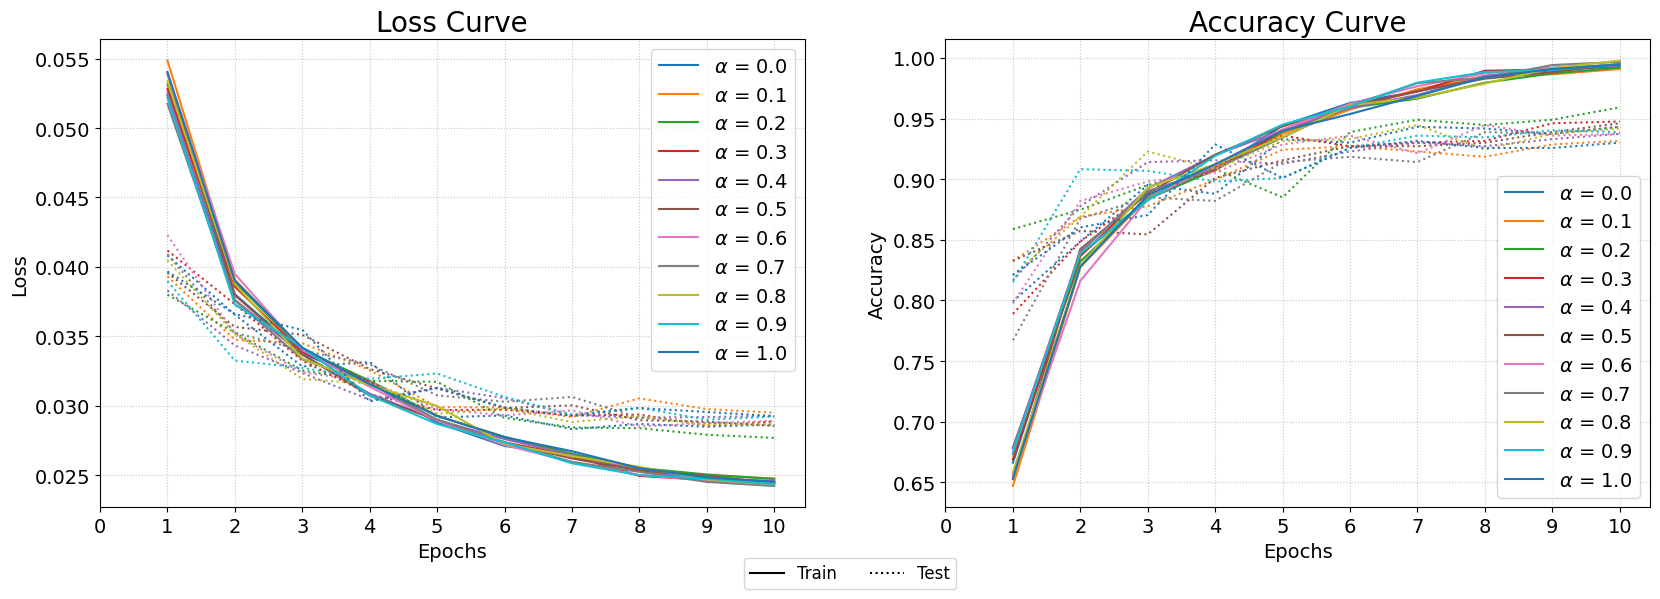
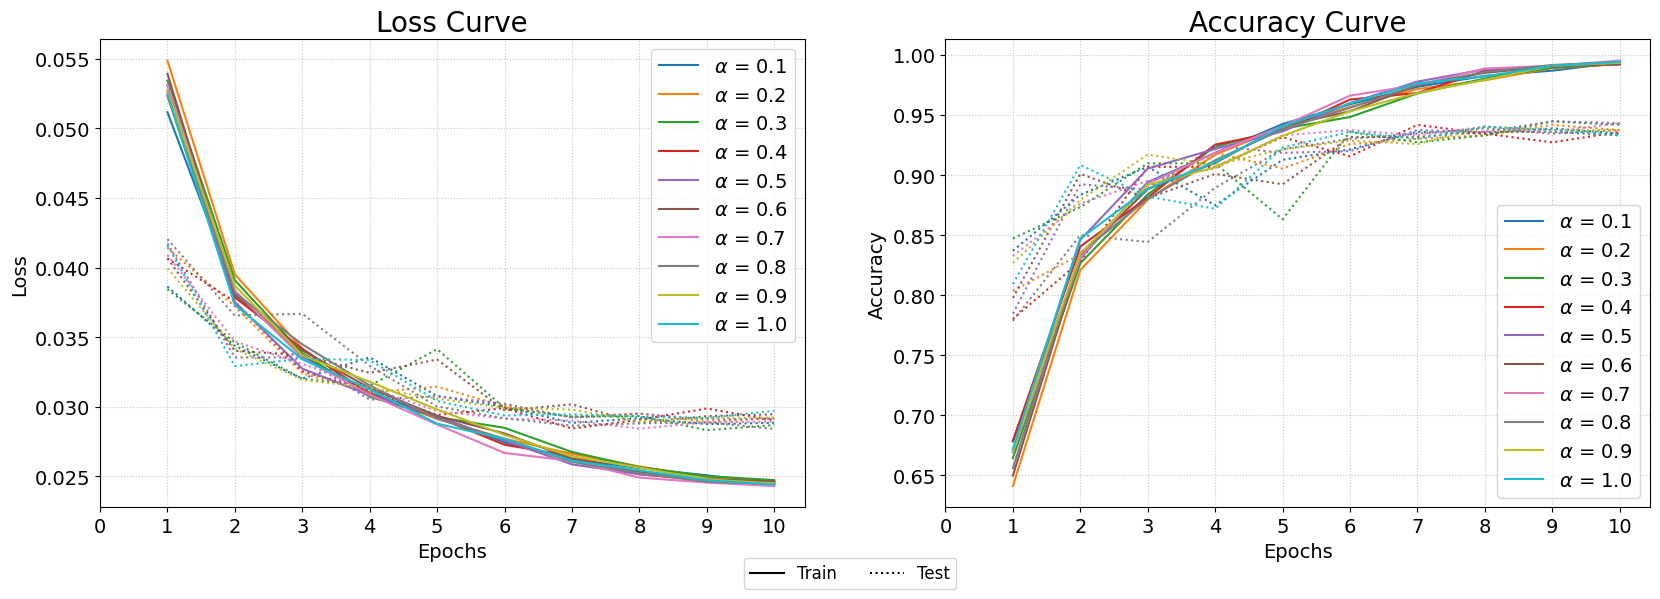
alphaの選定

diff --git a/Utils/args.py b/Utils/args.py
@@ -10,7 +10,7 @@ def get_args():
     parser.add_argument('--lr',default=1e-4,type=float)
     parser.add_argument('--weight_decay',default=1e-2,type=float)
     parser.add_argument('--batch_size',default=32,type=int)
-    parser.add_argument('--alpha', default=0.2, type=float)
+    parser.add_argument('--alpha', default=0.5, type=float)
     parser.add_argument('--view',default='Top',choices=['Top','Side','Fusion'],type = str)
     parser.add_argument('--model',default='ResNet18',choices = ['ResNet18','ViT','HCTNet','MidNet'],type = str)
     parser.add_argument('--format',default='{l_bar}{bar:60} | {n_fmt:>2} / {total_fmt:>2} [{elapsed} < {remaining} , {rate_fmt}] {postfix}',type = str)

diff --git a/test_alpha.py b/test_alpha.py
@@ -72,7 +72,7 @@ def train(args, output_dir):
     log_path = os.path.join(output_dir, 'train.log')
     logging.basicConfig(filename=log_path, level=logging.INFO, format='%(message)s', filemode='w')
 
-    alpha_list = [0.0, 0.1, 0.2, 0.3, 0.4, 0.5, 0.6, 0.7, 0.8, 0.9, 1.0]
+    alpha_list = [0.1, 0.2, 0.3, 0.4, 0.5, 0.6, 0.7, 0.8, 0.9, 1.0]
     histories = {}
     n_alpha = 0
     with tqdm(total=len(alpha_list), desc=f'{f"alpha":<10}', bar_format=args.format, ascii=args.ascii) as pbar:
